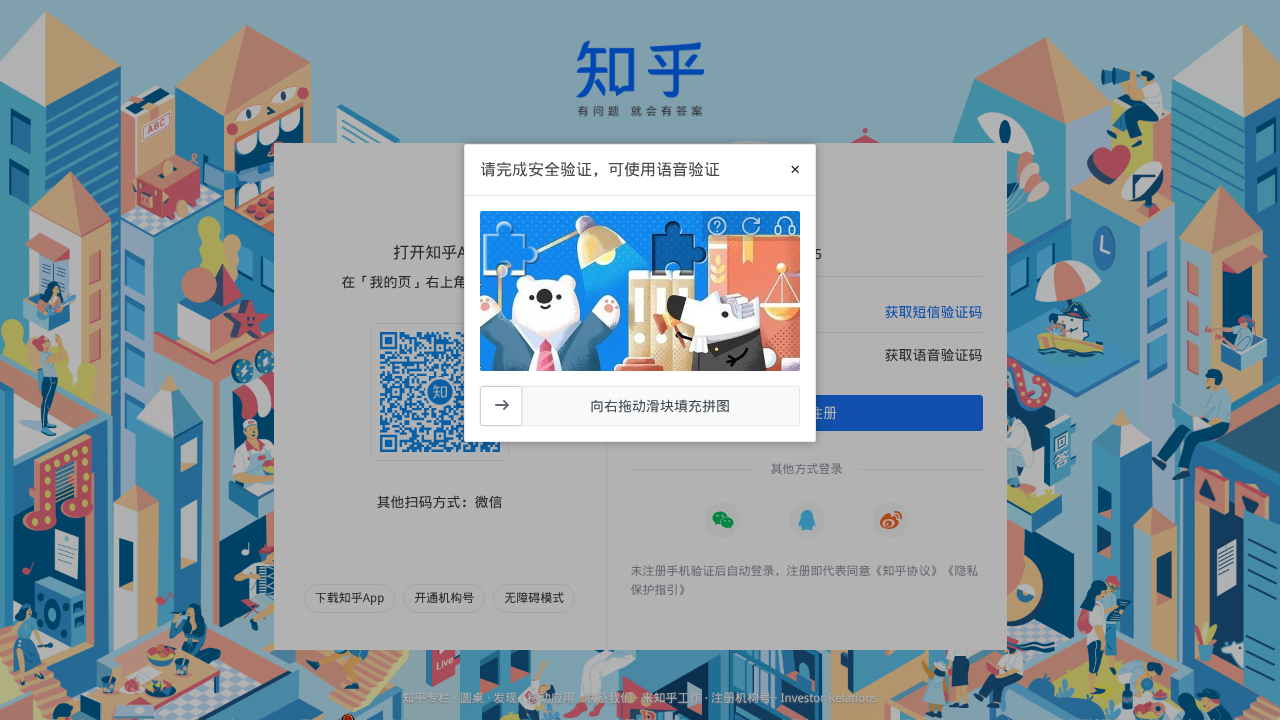
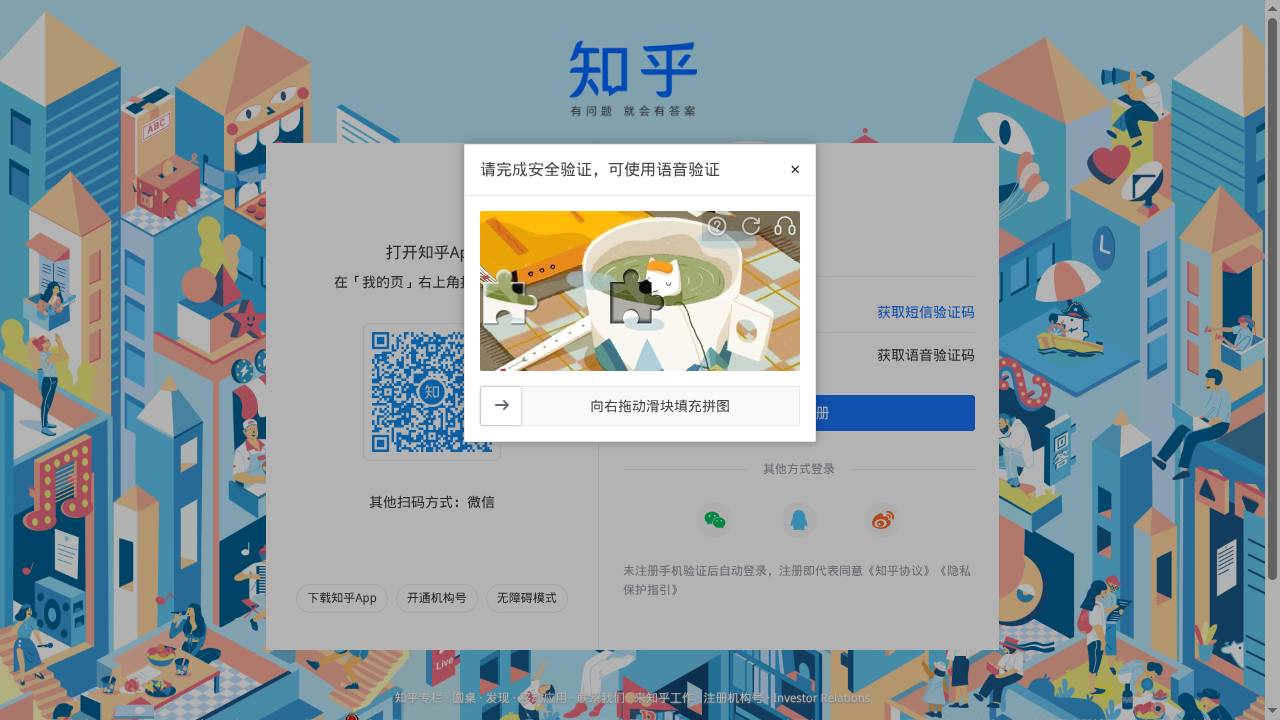
add

diff --git a/03_爬虫/zhihu_login/zhihu_login/spiders/login.py b/03_爬虫/zhihu_login/zhihu_login/spiders/login.py
@@ -1,6 +1,23 @@
 import scrapy
 from scrapy_playwright.page import PageMethod
+from playwright.async_api import Page
+from PIL import Image
+import base64, requests
+import asyncio
 
+def verify(b):
+    url = "http://api.jfbym.com/api/YmServer/customApi"
+    data = {
+        ## 关于参数,一般来说有3个;不同类型id可能有不同的参数个数和参数名,找客服获取
+        "token": "lGqPHEFLWd4iSv2pgbsj_dJZUuNd0ef3pBEvsXQxR3c",
+        "type": "22222",
+        "image": b,
+    }
+    _headers = {
+        "Content-Type": "application/json"
+    }
+    response = requests.request("POST", url, headers=_headers, json=data).json()
+    return int(response["data"]["data"])
 
 class LoginSpider(scrapy.Spider):
     name = "login"
@@ -24,10 +41,39 @@ class LoginSpider(scrapy.Spider):
                         PageMethod("click", "button:has-text('获取短信验证码')"),
                         PageMethod("wait_for_timeout", 2000),
                         # 截图
-                        PageMethod("screenshot", path="/data/workspace/liuhui/liuhui_work/06_Learning/note/03_爬虫/zhihu_login/ans.png"),
+                        PageMethod("screenshot", path="./ans.png"),
+                        # PageMethod("pause")
                     ],
                 },
-                callback=self.parse)
+                callback=self.login)
+    
+    async def login(self, response):
+        page: Page = response.meta["playwright_page"]
+        img = Image.open("./ans.png")
+        box = (460, 140, 820, 440)
+        slide_img = img.crop(box)
+        slide_img.save("./slide.png")
+
+        with open("./slide.png", "rb") as f:
+            b = base64.b64encode(f.read()).decode()  ## 图片二进制流base64字符串
+        pixel_offset = verify(b)
+        x_start = 33 + 460
+        y_start = 258 + 140
+        await page.mouse.move(x_start, y_start)
+        await page.mouse.down()
+
+        total = int(pixel_offset + 10)
+        current = 0
+        while current < total:
+            step = min(5, total - current)
+            current += step
+            await page.mouse.move(x_start + current, y_start, steps=1)
+            await asyncio.sleep(0.02)
+
+        print(f"------------------------------------------> offset : {pixel_offset}")
+        await page.screenshot(path="./moved.png")
+        await page.mouse.up()
+
 
     def parse(self, response):
         import pdb; pdb.set_trace()

diff --git a/03_爬虫/zhihu_login/zhihu_login/settings.py b/03_爬虫/zhihu_login/zhihu_login/settings.py
@@ -14,7 +14,6 @@ NEWSPIDER_MODULE = "zhihu_login.spiders"
 
 ADDONS = {}
 
-
 # Crawl responsibly by identifying yourself (and your website) on the user-agent
 USER_AGENT = "Mozilla/5.0 (Windows NT 10.0; Win64; x64) AppleWebKit/537.36 (KHTML, like Gecko) Chrome/138.0.0.0 Safari/537.36"
 
@@ -33,7 +32,7 @@ DOWNLOAD_HANDLERS = {
 TWISTED_REACTOR = "twisted.internet.asyncioreactor.AsyncioSelectorReactor"
 PLAYWRIGHT_BROWSER_TYPE = "chromium"  # or firefox
 PLAYWRIGHT_LAUNCH_OPTIONS = {
-    "headless": True
+    "headless": False
 }
 # Disable cookies (enabled by default)
 #COOKIES_ENABLED = False
